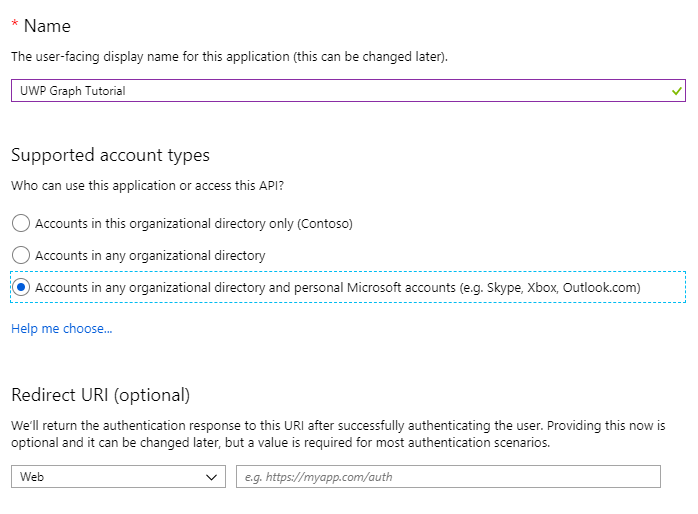
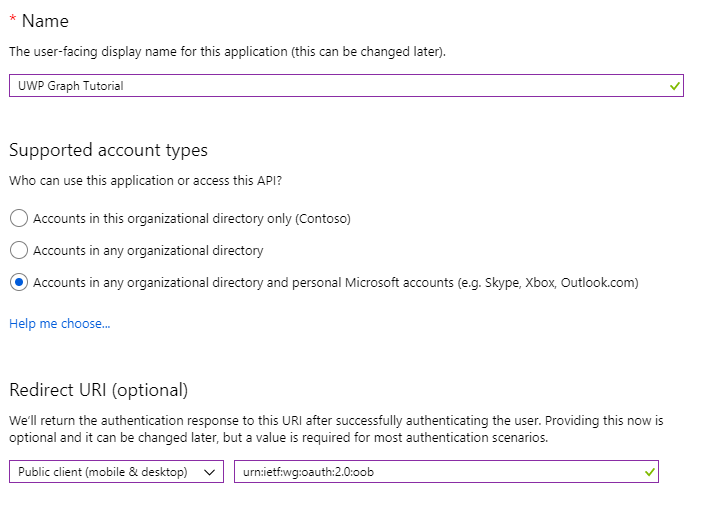
Fixed app registration instructions

diff --git a/Demos/03-add-msgraph/README.md b/Demos/03-add-msgraph/README.md
@@ -24,17 +24,13 @@ If you don't have a Microsoft account, there are a couple of options to get a fr
 
     - Set **Name** to `UWP Graph Tutorial`.
     - Set **Supported account types** to **Accounts in any organizational directory and personal Microsoft accounts**.
-    - Leave **Redirect URI** empty.
+    - Under **Redirect URI**, change the dropdown to **Public client (mobile & desktop)**, and set the value to `urn:ietf:wg:oauth:2.0:oob`.
 
     ![A screenshot of the Register an application page](/tutorial/images/aad-register-an-app.png)
 
 1. Choose **Register**. On the **UWP Graph Tutorial** page, copy the value of the **Application (client) ID** and save it, you will need it in the next step.
 
     ![A screenshot of the application ID of the new app registration](/tutorial/images/aad-application-id.png)
-
-1. Select the **Add a Redirect URI** link. On the **Redirect URIs** page, locate the **Suggested Redirect URIs for public clients (mobile, desktop)** section. Select the `urn:ietf:wg:oauth:2.0:oob` URI, then choose **Save**.
-
-    ![A screenshot of the Redirect URIs page](/tutorial/images/aad-redirect-uris.png)
 
 ## Configure the sample
 

diff --git a/tutorial/register-app.md b/tutorial/register-app.md
@@ -12,14 +12,10 @@ In this exercise you will create a new Azure AD native application using the Azu
 
     - Set **Name** to `UWP Graph Tutorial`.
     - Set **Supported account types** to **Accounts in any organizational directory and personal Microsoft accounts**.
-    - Leave **Redirect URI** empty.
+    - Under **Redirect URI**, change the dropdown to **Public client (mobile & desktop)**, and set the value to `urn:ietf:wg:oauth:2.0:oob`.
 
     ![A screenshot of the Register an application page](./images/aad-register-an-app.png)
 
 1. Choose **Register**. On the **UWP Graph Tutorial** page, copy the value of the **Application (client) ID** and save it, you will need it in the next step.
 
     ![A screenshot of the application ID of the new app registration](./images/aad-application-id.png)
-
-1. Select the **Add a Redirect URI** link. On the **Redirect URIs** page, locate the **Suggested Redirect URIs for public clients (mobile, desktop)** section. Select the `urn:ietf:wg:oauth:2.0:oob` URI, then choose **Save**.
-
-    ![A screenshot of the Redirect URIs page](./images/aad-redirect-uris.png)
